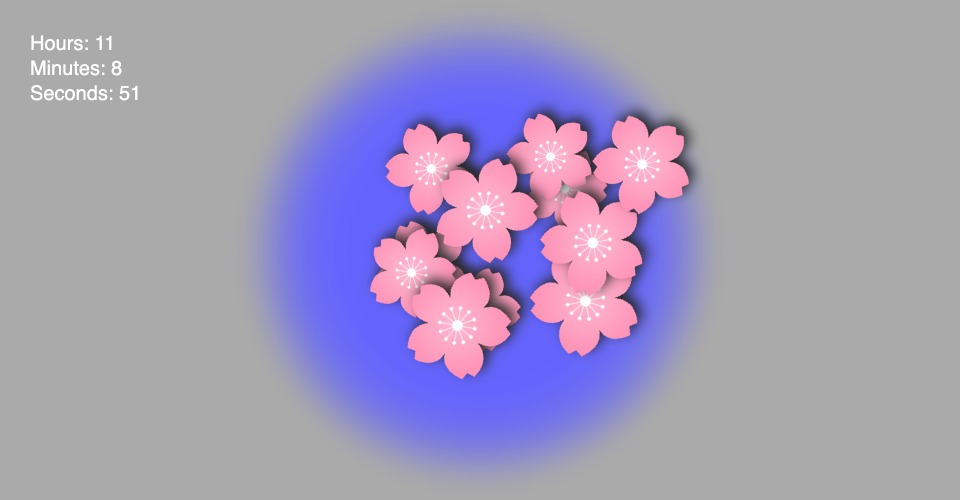
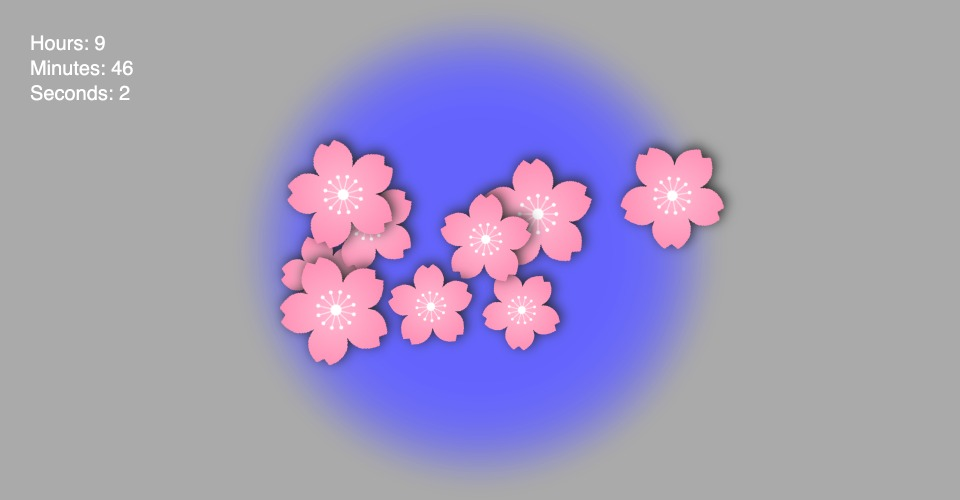
Updated sakura randomisation

Changed region(s): [[0.2812, 0.21, 0.7812, 0.78], [0.0938, 0.06, 0.1562, 0.15], [0.125, 0.18, 0.1562, 0.21]]

diff --git a/clock.js b/clock.js
@@ -4,10 +4,9 @@ Use p5.js to draw a clock on a 960x500 canvas
 
 // GLOBAL VARIABLES
 let initialize = true;
-let oldHour;
 let sakuraImg;
+let numSakura = 0;
 
-let flowers = [];
 let sakuras = [];
 
 // DRAW CLOCK FUNCTION
@@ -24,24 +23,8 @@ function draw_clock(obj) {
   
   // Run "setup" function
   if (initialize) {
-    // Set styles
-    angleMode(DEGREES);
-
     // Load sakura image
     sakuraImg = loadImage('assets/sakura.png');
-
-    // Create sakura objects depending on the current hour
-    for (let i = 0; i < obj.hours; i++) {
-      // Append object to sakuras array
-      sakuras.push(new Sakura(
-        random(-200, 200), // X
-        random(-100, 100), // Y
-        random(0.5, 0.75) // Scale
-      ));
-    }
-
-    // Set oldHour to current hour
-    oldHour = obj.hours;
     
     // Set boolean to false
     initialize = false;
@@ -50,6 +33,7 @@ function draw_clock(obj) {
   // Set styles
   background(170);
   translate(width / 2, height / 2);
+  angleMode(DEGREES);
 
   // DRAW POND
   pond();
@@ -57,38 +41,31 @@ function draw_clock(obj) {
   // DRAW BRANCHES
   // branch();
 
-  // DRAW FLOWERS
-  // Repeat for every flower object in array
-  // for (const flower of flowers) {
-  //   // Run show function
-  //   flower.show();
-  // }
-
   // DRAW SAKURAS
-  if (obj.hours > oldHour) {
-    // Append sakuras array with new object
-    sakuras.push(new Sakura(
-      random(-200, 200),
-      random(-100, 100),
-      random(0.25, 0.75)
-    ));
 
-    // Set oldHour to current hour
-    oldHour = obj.hours;
+
+  if (obj.hours > numSakura) {
+    // Append sakuras array with new object
+    sakuras.push(new Sakura());
+
+    // Set numSakura to current hour
+    numSakura++;
   }
 
-  if (obj.hours < oldHour) {
+  if (obj.hours < numSakura) {
     // Remove latest object from sakuras array
     sakuras.pop();
 
-    // Set oldHour to current hour
-    oldHour = obj.hours;
+    // Set numSakura to current hour
+    numSakura--;
   }
 
-  // Repeat for all objects in sakuras array
+  // Run the show function for all objects in sakuras array
   for (const sakura of sakuras) {
-    sakura.show();
+    sakura.show(obj.hours);
   }
+
+  console.log(numSakura);
 
   // DEBUG
   debug();
@@ -97,38 +74,62 @@ function draw_clock(obj) {
 // SAKURA CLASS
 class Sakura {
   // Constructor function
-  constructor(_x, _y, _scale) {
-    this.x = _x;
-    this.y = _y;
-    this.scale = _scale;
+  constructor() {
+    // Randomise variables
+    this.scale = map(noise(frameCount), 0, 1, 0.5, 1);
+    this.direction = round(noise(frameCount));
+    this.initialRotation = map(noise(frameCount), 0, 1, 0, 359);
+    this.rotationSpeed = map(noise(frameCount), 0, 1, 0, 0.1);
 
-    this.direction = floor(random(2));
-    this.initialRotation = floor(random(360));
-    this.rotationSpeed = random(0.1);
-
+    // Set rotation as initial rotation
     this.rotation = this.initialRotation;
   }
 
+  move() {
+    
+  }
+
   // Show function
-  show() {
-    // Calculate the rotation based on the elapsed time and direction
+  show(hours) {
+    // Calculate the rotation based on the direction and elapsed time
     let rotationDirection = (this.direction === 0) ? 1 : -1;
     let currentRotation = ((frameCount * this.rotationSpeed) % 360) * rotationDirection;
 
-    // Add the initial rotation to create a seamless loop
+    // Add initial rotation to create a seamless loop
     this.rotation = (currentRotation + this.initialRotation) % 360;
 
+    // Set styles
     push();
-    translate(this.x, this.y);
+    translate(0, 0);
     rotate(this.rotation);
     scale(this.scale);
     imageMode(CENTER);
-
-    drawingContext.shadowOffsetX = 5;
-    drawingContext.shadowOffsetY = -5;
     drawingContext.shadowBlur = 25;
     drawingContext.shadowColor = color(40, 40, 40); // Dark gray
 
+    // Shadow X
+    if (hours <= 11) {
+      drawingContext.shadowOffsetX = map(hours, 0, 11, 25, -25);
+    }
+    else {
+      drawingContext.shadowOffsetX = map(hours, 12, 23, 25, -25);
+    }
+    
+    // Shadow Y
+    if (hours <= 5) {
+      drawingContext.shadowOffsetY = map(hours, 0, 5, 20, -10);
+    }
+    else if (hours >= 6 && hours <= 11) {
+      drawingContext.shadowOffsetY = map(hours, 6, 11, -10, 20);
+    }
+    else if (hours >= 12 && hours <= 17) {
+      drawingContext.shadowOffsetY = map(hours, 12, 17, 20, -10);
+    }
+    else if (hours >= 18) {
+      drawingContext.shadowOffsetY = map(hours, 18, 23, -10, 20);
+    }
+
+    // Draw image
     image(sakuraImg, 0, 0);
     pop();
   }
@@ -177,5 +178,6 @@ function debug() {
   text('Hours: ' + obj.hours, -450, -200);
   text('Minutes: ' + obj.minutes, -450, -175);
   text('Seconds: ' + obj.seconds, -450, -150);
+  text('Number of sakura: ' + numSakura, -450, -125);
   pop();
 }

diff --git a/README.md b/README.md
@@ -23,3 +23,10 @@ GitHub Page: https://23-2-dsdn242.github.io/time-based-media-Ivandane/
 - Created a sakura blossom image to load into my project.
 - Created a class that loads objects within an array depending on the current minutes.
 - Used obj.hours and a variable 'oldHour' to populate the array with the correct amount of objects.
+
+## 14/03/2024
+
+- Linked shadows of sakura to the current hour
+- Replaced random with noise
+- Fixed bug where the number of sakura did not match the current hour
+- Set starting point for sakura at (0, 0)
